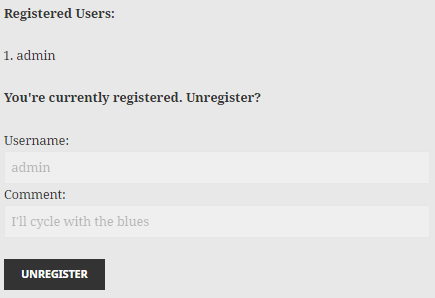
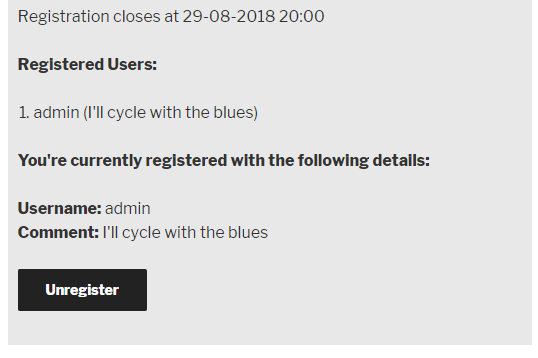
Updated shortcodes and improved seatt-form shortcode to add list functionality
Also updated screenshots

diff --git a/simple-event-attendance/seatt_events_admin.php b/simple-event-attendance/seatt_events_admin.php
@@ -78,16 +78,9 @@ if	($seatt_hidden == 'Y') {
 ?>
 <p>This page lists all events (open and closed) that exist in the database.</p>
 <br />
-<h2>How to display events in posts and pages</h2>
-<!--<p>To display all currently active events, paste the following into the post/page text:</p>
-<p><pre>[seatt-list]</pre></p>
-<br />-->
-<p>To include a specific attendance form on a page/post, paste the tag into the post/page text:</p>
-<p><pre>[seatt-form event_id=x]</pre></p>
-<p>(x = the event id in the table below). If you haven't created the event_id, or have deleted it, nothing will be displayed.</p>
-<br />
 <h2>Events</h2>
-<table width="auto" border="0" align="left" cellpadding="5" cellspacing="5">
+<p>Lists all events (green = open, amber = expired, red = closed).</p>
+<table width="auto" border="0"  cellpadding="5" cellspacing="5">
     <tr>
         <th align="left" scope="col">Event ID</th>
         <th align="left" scope="col">Shortcode</th>
@@ -110,19 +103,23 @@ if	($seatt_hidden == 'Y') {
     // If zero then mark event as expired
 		if ($event_expire_seconds < 0) {
 			$event_expire_seconds = 0;
-			$event->event_status = 0;
+			//$event->event_status = 0;
     	}
 
     // Set variable with formatted time remaining
-    $event_expire = sprintf('%02d%s%02d%s%02d%s', floor($event_expire_seconds/3600), 'd ', ($event_expire_seconds/60)%60, 'm ', $event_expire_seconds%60, 's');
+    $event_expire_days = floor($event_expire_seconds/3600/24);
+    $event_expire_hours = floor($event_expire_seconds/3600) - ($event_expire_days*24);
+    $event_expire = sprintf('%d%s%02d%s%02d%s%02d%s', $event_expire_days, 'd ', $event_expire_hours, 'h ', ($event_expire_seconds/60)%60, 'm ', $event_expire_seconds%60, 's');
 
     // Set div colour and text for the status
     if(intval($event->event_status) == 0) {
-      $event_status_html = '<div style="width:15px;height:15px;background-color:#ff0000" title="Event expired or closed"></div>';
+      $event_status_html = '<div style="width:15px;height:15px;background-color:#ff0000" title="Event closed"></div>';
+    } elseif ($event_expire_seconds == 0) {
+      $event_status_html = '<div style="width:15px;height:15px;background-color:#ffc200" title="Event expired"></div>';
     } else {
-      $event_status_html = '<div style="width:15px;height:15px;background-color:#00ff00" title="Event open"></div>';
+      $event_status_html = '<div style="width:15px;height:15px;background-color:#00cc00" title="Event open"></div>';
     }
-    //$event_status_2 = '<div style="width:15px;height:15px;background-color:#FFC200" title="Event pending"></div>';
+
 
     ?>
     <tr>
@@ -143,4 +140,17 @@ if	($seatt_hidden == 'Y') {
 }
     ?>
 </table>
+<br />
+<br />
+<h2>How to display events in posts and pages</h2>
+<p>To display all currently open events (includes anything with an open status, regardless of whether registration has closed), paste the following into the post/page text:</p>
+<p><pre>[seatt-list]</pre></p>
+<br />
+<p>To include a specific attendance form on a page/post, paste the tag into the post/page text:</p>
+<p><pre>[seatt-form event_id=x]</pre></p>
+<p>(x = the event id in the table below). If you haven't created the event_id, or have deleted it, nothing will be displayed.</p>
+<br />
+<p>To make user comments publicly visible on the post/page event form, add public_comments=1 to the short code, for example:</p>
+<p><pre>[seatt-list public_comments=1] or [seatt-form event_id=x public_comments=1]</pre></p>
+<p>By default, comments will not be shown in the post/page form.</p>
 </div>

diff --git a/simple-event-attendance/seatt_events_include.php b/simple-event-attendance/seatt_events_include.php
@@ -2,18 +2,8 @@
 // seatt_events_include.php
 // Purpose: Carries functions for UI (in-page form and the event list)
 
-
-// Function for the in-page
-function seatt_form($event_id) {
-	global $wpdb;
-	global $current_user;
-	//get_currentuserinfo(); deprecated since wp 4.5
-    $current_user = wp_get_current_user();
-	$seatt_error = "";
-
-    // Get settings
-    $seatt_set_public_comments = 0;
-
+// Function to cleanse numeric values, set to nothing if something other than an integer
+function check_event_id($event_id) {
 	// Clean down event ID by checking if numeric, then casting to integer
 	if (isset($event_id)) {
 		if (is_numeric($event_id)) {
@@ -24,6 +14,21 @@ function seatt_form($event_id) {
 	} else {
 		$event_id = '';
 	}
+	// Return the event_id
+	return $event_id;
+}
+
+
+// Function for the in-page form
+function seatt_form($event_id, $public_comments = 0) {
+	global $wpdb;
+	global $current_user;
+	//get_currentuserinfo(); deprecated since wp 4.5
+	$current_user = wp_get_current_user();
+	$seatt_error = "";
+
+	// Clean down event ID by checking if numeric, then casting to integer
+	$event_id = check_event_id($event_id);
 
 	// Clean down form event ID by checking if numeric, then casting to integer
 	if (isset($_POST['seatt_event_id'])) {
@@ -126,7 +131,7 @@ function seatt_form($event_id) {
 				$user_info = get_userdata($user->user_id);
 				$seatt_output .= '<li>' . esc_html($user_info->user_login);
 				// If public comments setting is enabled, display comments in form
-                if ($seatt_set_public_comments) {
+                if ($public_comments & esc_html($user->user_comment) != '') {
                     $seatt_output .= ' (' . esc_html($user->user_comment) . ')</li>';
                 }
                 $seatt_output .= '</li>';
@@ -199,6 +204,37 @@ function seatt_form($event_id) {
 			return $seatt_output;
 		}
 	}
+}
+
+
+// Function for the in-page list
+function seatt_list($category="",$public_comments = 0) {
+	global $wpdb;
+
+	// Get list of open events, which haven't expired
+	$seatt_event_list = $wpdb->get_results($wpdb->prepare("SELECT id FROM ".$wpdb->prefix."seatt_events WHERE event_status = %d AND event_expire >= %d ORDER BY event_expire ASC", 1, current_time('timestamp')));
+
+	if (count($seatt_event_list) > 0) {
+		$seatt_output = '<div style="background:#E8E8E8;padding:10px;margin-bottom:5px;"><h2 style="margin-top:10px;">Event listing</h2>';
+
+		if (count($seatt_event_list) > 1) {
+			$seatt_output .= '<p>There are ' . count($seatt_event_list) . ' open events.</p></div>';
+		} else {
+			$seatt_output .= '<p>There is ' . count($seatt_event_list) . ' open event.</p></div>';
+		}
+
+		foreach ($seatt_event_list as $seatt_event) {
+			$seatt_output .= seatt_form($seatt_event->id,$public_comments);
+		}
+
+		return $seatt_output;
+
+	} else {
+		// If there are no records, return a message
+		return '<div style="background:#E8E8E8;padding:10px;margin-bottom:5px;"><h2 style="margin-top:10px;">All open events</h2>
+		<p>There are currently no open events.</p></div>';
+	}
+
 }
 
 ?>

diff --git a/simple-event-attendance/seatt_events_add.php b/simple-event-attendance/seatt_events_add.php
@@ -1,25 +1,20 @@
-<?php
-// seatt_events_add.php
-// Purpose: Template for the add event SEATT settings page
-?>
-
-<div class="wrap">
+<div class="wrap">  
 <?php include("seatt_header.php"); ?>
           <?php    echo "<h2>" . __( 'Simple Event Attendance - Add Event', 'seatt_trdom' ) . "</h2>";
 		  // Process form if sent
           if(isset($_POST['seatt_name'])) {
-			$_POST = stripslashes_deep($_POST);
+			$_POST = stripslashes_deep($_POST);  
 			$event_name = sanitize_text_field($_POST['seatt_name']);
 			$event_desc = wp_kses_post($_POST['seatt_desc']);
 			$event_limit = intval($_POST['seatt_limit']);
 			$event_start = strtotime($_POST['seatt_start']);
 			$event_expire = strtotime($_POST['seatt_expire']);
-
+			
 			// Ensure required fields contain values, insert if true
 			if ((strlen(trim($event_name)) > 0) &&
 				($event_start) &&
 				($event_expire)) {
-
+							
 				global $wpdb;
 				$wpdb->insert($wpdb->prefix.'seatt_events', array( 'event_name' => $event_name, 'event_desc' => $event_desc, 'event_limit' => $event_limit, 'event_start' => $event_start, 'event_expire' => $event_expire, 'event_status' => 1, 'event_reserves' => 0 ), array('%s', '%s', '%d', '%s', '%s', '%d', '%d') );
 				?>
@@ -27,7 +22,7 @@
                 	<p><strong>Event <?php echo esc_html($event_name); ?> added.</strong></p>
                 </div>
 				<?php
-
+				
 			  } else {
 
 				// If required fields missing
@@ -46,7 +41,7 @@
 		    <input name="seatt_name" type="text" id="seatt_name" size="50" maxlength="150">
             </p>
 		    <p>Event Description<br>
-            <?php
+            <?php 
             // Open in WP editor
             $content = '';
             $editor_id = 'seatt_desc';
@@ -69,5 +64,5 @@ eg the server date/time is currently '<a onclick="document.getElementById('seatt
 		      <input type="submit" name="Submit" value="<?php _e('Add Event', 'seatt_trdom' ) ?>" />
 		    </p>
   		  </form>
-		  <p>&nbsp;</p>
+		  <p>&nbsp;</p>       
           </div>

diff --git a/simple-event-attendance/simple-events-attendance.php b/simple-event-attendance/simple-events-attendance.php
@@ -121,14 +121,41 @@ function seatt_admin_actions() {
 
 add_action('admin_menu', 'seatt_admin_actions');
 
-function seatt_func( $atts ) {
-	extract( shortcode_atts( array(
-		'event_id' => '1',
-	), $atts ) );
+// Set shortcode for seatt-form shortcode and seatt_form function
+function seatt_tag_form( $atts ) {
 
-	return seatt_form("{$event_id}");
+	// Attributes - category only at the moment
+	$atts = shortcode_atts(
+		array(
+			'event_id' => '',
+			'public_comments' => '0',
+		),
+		$atts
+	);
+
+	return seatt_form($atts['event_id'], $atts['public_comments']);
+
 }
-add_shortcode( 'seatt-form', 'seatt_func' );
 
+add_shortcode( 'seatt-form', 'seatt_tag_form' );
+
+
+// Set shortcode for seatt-list shortcode and seatt_list function
+function seatt_tag_list( $atts ) {
+
+	// Attributes - category only at the moment
+	$atts = shortcode_atts(
+		array(
+			'category' => '',
+			'public_comments' => '0',
+		),
+		$atts,
+		'seatt-list'
+	);
+
+	return seatt_list($atts['category'], $atts['public_comments']);
+
+}
+add_shortcode( 'seatt-list', 'seatt_tag_list' );
 
 ?>
